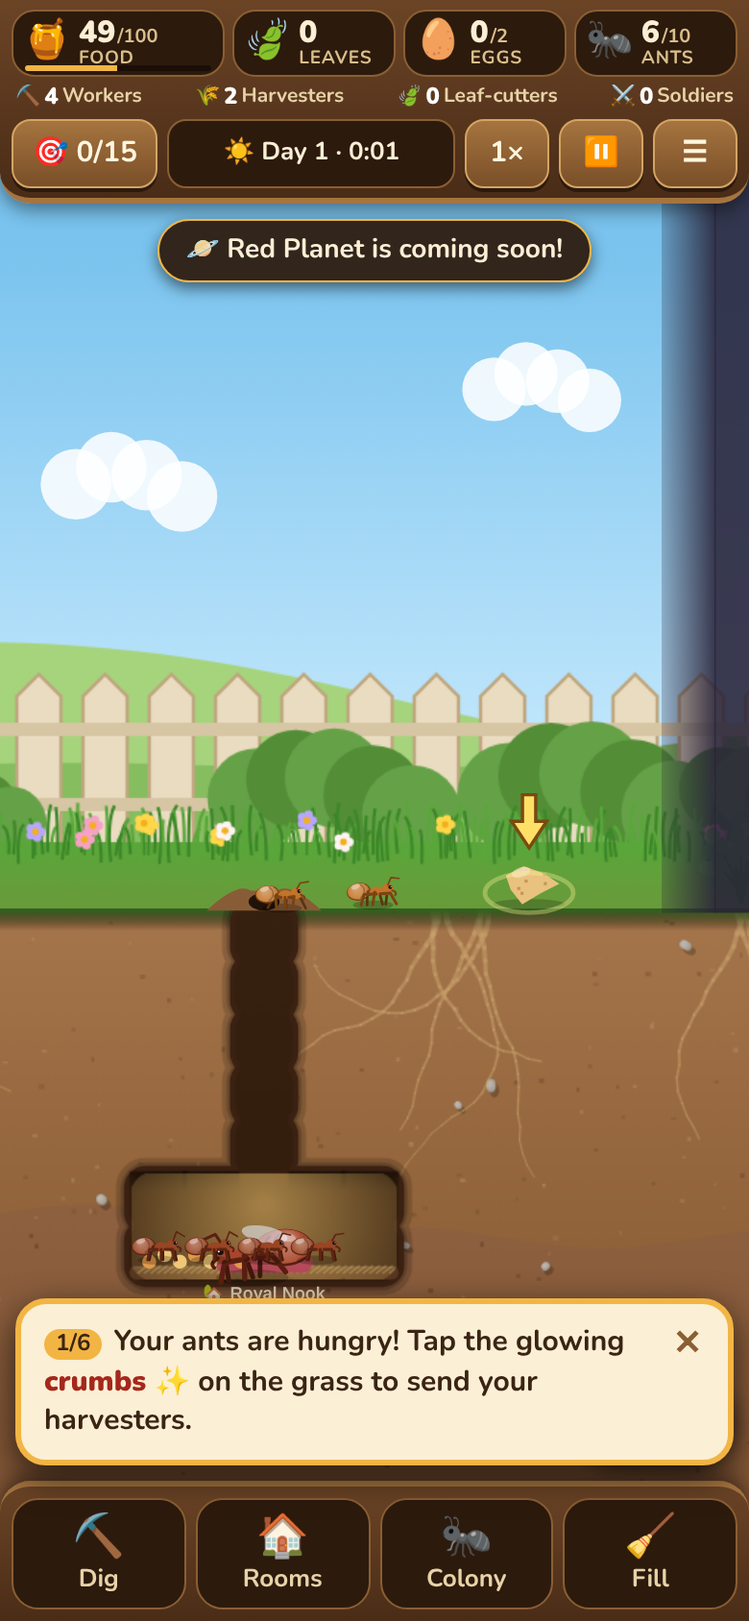
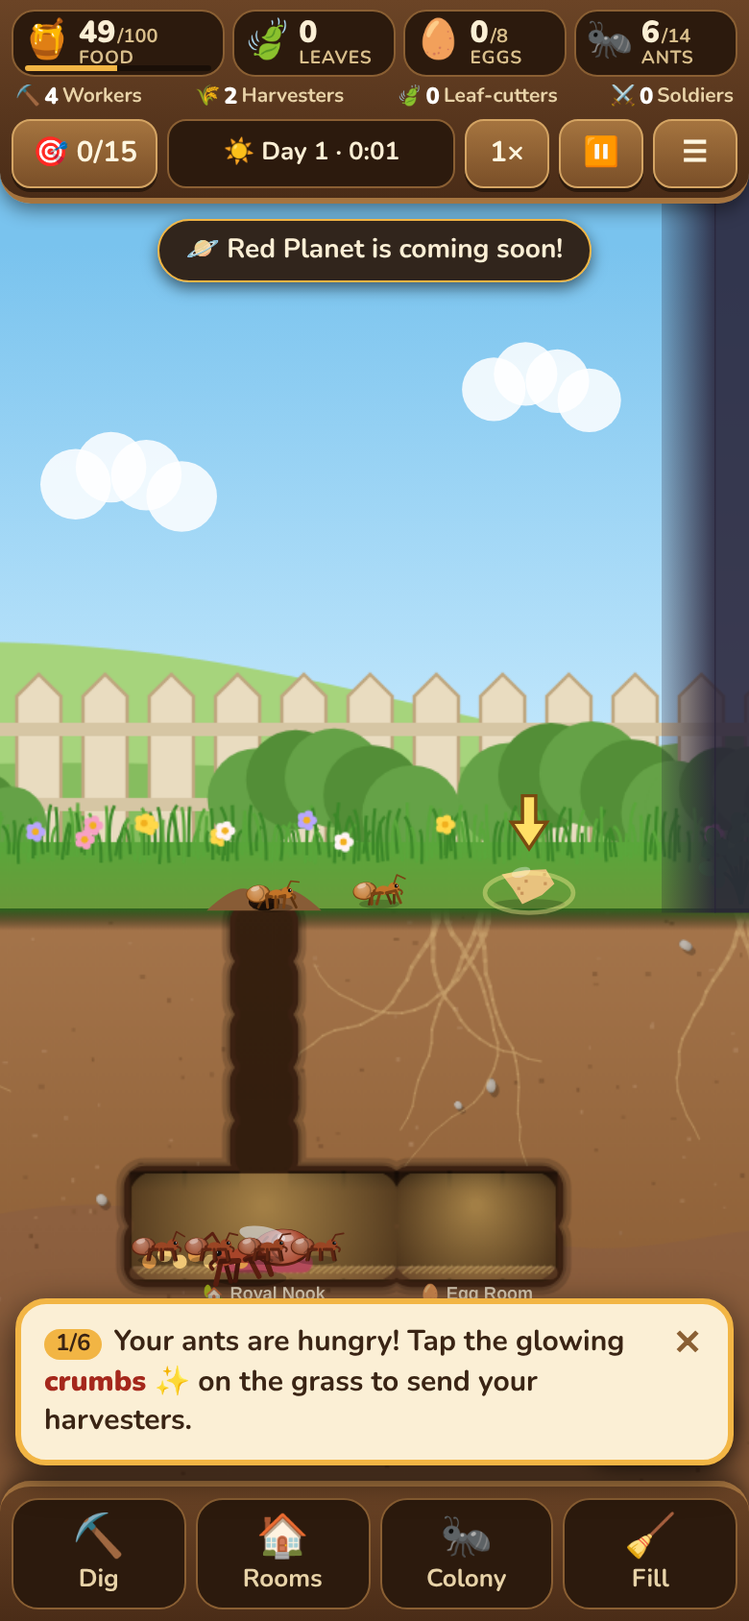
v1.0.1: hatching can never stall — starter Egg Room, pop cap 14, Lay egg button with reason + one-tap fix, hatch-as worker/harvester, Worker ＋

diff --git a/ui.js b/ui.js
@@ -14,7 +14,7 @@ const TUT = [
   { t: 'More harvesters = more food. Open <b>🐜 Colony</b> and tap <b>＋</b> next to Harvesters.', hi: 'tab-colony', ok: () => count('harvester') >= 3 },
   { t: 'Time to dig! Tap <b>⛏ Dig</b>, then drag your finger from the tunnel into the dirt. Each cell costs 1 🍯.', hi: 'tab-dig', ok: () => S.st.planned >= 4 },
   { t: 'Rooms go next to tunnels. Tap <b>🏠 Rooms → Food Storage</b>, then tap beside your tunnel.', hi: 'tab-rooms', ok: () => roomsOf('storage').length > 0 },
-  { t: 'Add an <b>🥚 Egg Room</b> so the queen can lay more eggs. Workers dig rooms out for you.', hi: 'tab-rooms', ok: () => roomsOf('eggs').length > 0 },
+  { t: 'Add a <b>🛏 Sleeping Den</b> so your colony can grow past 14 ants. Workers dig rooms out for you.', hi: 'tab-rooms', ok: () => roomsOf('den').length > 0 },
   { t: 'You\'ve got it! Keep food above zero, follow <b>🎯 Goals</b>, and train soldiers before the first raid. Tap ✓.', hi: null, ok: () => false, done: true },
 ];
 function tutTick() {
@@ -25,7 +25,7 @@ function tutTick() {
   if ($('coach-t').dataset.k !== String(S.tut)) { $('coach-t').innerHTML = `<span class="step">${S.tut + 1}/${TUT.length}</span> ` + st.t; $('coach-t').dataset.k = S.tut; $('coach-ok').classList.toggle('hidden', !st.done); }
   hiOff(); if (st.hi && UI.tab !== st.hi.slice(4)) $(st.hi).classList.add('hl');
   if (S.tut === 1 && UI.tab === 'colony') document.querySelector('[data-a="+harvester"]')?.classList.add('hl');
-  if (S.tut >= 3 && S.tut <= 4 && UI.tab === 'rooms') document.querySelector(`[data-room="${S.tut === 3 ? 'storage' : 'eggs'}"]`)?.classList.add('hl');
+  if (S.tut >= 3 && S.tut <= 4 && UI.tab === 'rooms') document.querySelector(`[data-room="${S.tut === 3 ? 'storage' : 'den'}"]`)?.classList.add('hl');
 }
 function hiOff() { document.querySelectorAll('.hl').forEach(e => e.classList.remove('hl')); }
 function endTut() { S.tut = TUT.length; try { localStorage.setItem(TUT_KEY, '1'); } catch (e) {} tutTick(); }
@@ -33,12 +33,13 @@ $('coach-x').onclick = endTut; $('coach-ok').onclick = endTut;
 
 // ---------- HUD ----------
 function layReason() {
-  const q = queen(); if (!q) return 'No queen';
-  if (adults() + S.eggs.length >= popCap()) return 'Colony full — build a 🛏 Sleeping Den';
-  if (!S.rooms.some(r => r.done && ROOMS[r.k].eggs && !r.fl && S.eggs.filter(e => e.rid === r.id).length < ROOMS[r.k].eggs)) return 'No space for eggs — build a 🥚 Egg Room';
-  if (S.res.food < EGG_FOOD + 6) return 'Needs 10+ food to lay';
+  const v = canLay(); if (!v.ok) return v.why;
+  if (S.res.food < EGG_FOOD + 6) return 'Saving food — lays on her own at 10+ food';
   return `Laying (next egg ${Math.ceil(Math.max(0, S.qT) / (has('queen') ? 2 : 1))}s)`;
 }
+const FIX_TXT = { den: '🛏 Build Den', eggs: '🥚 Build Egg Room', harvester: '🌾 ＋ Harvester' };
+function doFix(f) { if (f === 'harvester') { const r = assign('harvester', 1); toast(r.ok ? '🌾 +1 Harvester' : r.why, r.ok ? '' : 'bad'); return; }
+  closeSheet(); UI.tab = 'rooms'; setMode('room', f); flyTo(ENTX, 160); }
 function alertText() {
   const f = S.res.food, net = netPerMin(), R = S.raid, bio = B();
   if (f <= 0) return { k: 'bad', t: '🍯 Starving! Ants lose health until you get food.', btn: true };
@@ -50,6 +51,7 @@ function alertText() {
   if (S.rain.on) return { k: 'warn', t: `${bio.rain.icon} ${bio.rain.name}! Water pools in the deepest tunnels` };
   if (S.rain.warned) return { k: 'warn', t: `${bio.rain.icon} ${bio.rain.name} in ${mmss(S.rain.next - S.t)} — keep key rooms high` };
   if (S.water > .5) return { k: 'info', t: `💧 Draining flood water… (${S.water.toFixed(1)} cells)` };
+  const v = canLay(); if (!v.ok && v.fix && v.fix !== 'harvester' && S.t > 20) return { k: 'info', t: `👑 Queen can't lay: ${v.why.split(' — ')[0]}`, fix: v.fix };
   return null;
 }
 let hudT = 0;
@@ -64,13 +66,13 @@ function hud() {
   const done = GOALS.filter(g => S.goals[g[0]]).length; $('btn-goals').textContent = `🎯 ${done}/${GOALS.length}`;
   const R = S.raid; $('status').textContent = S.hill.dead && !S.endless ? '🏳 Hill conquered' : R.active ? '⚔ Raid!' : S.t > R.next - (has('lookout') ? 45 : 12) || has('lookout') ? `⚔ Raid ${mmss(R.next - S.t)}` : `☀ Day ${1 + Math.floor(S.t / 120)} · ${mmss(S.t)}`;
   const a = alertText(), al = $('alert');
-  if (a) { al.className = 'show ' + a.k; $('alert-t').textContent = a.t; $('alert-b').classList.toggle('hidden', !a.btn); } else al.className = '';
+  if (a) { al.className = 'show ' + a.k; $('alert-t').textContent = a.t; const fx = a.btn ? 'harvester' : a.fix; $('alert-b').classList.toggle('hidden', !fx); $('alert-b').dataset.fix = fx || ''; $('alert-b').textContent = FIX_TXT[fx] || ''; } else al.className = '';
   const ns = count('soldier'); $('btn-army').classList.toggle('hidden', ns === 0); $('army-n').textContent = ns; $('btn-army').classList.toggle('sel', UI.sel.length > 0);
   $('btn-view').textContent = cam.y > 60 ? '⬆ Surface' : '⬇ Nest';
   if (UI.tab === 'colony' && !UI.selRoom) renderColony(); else if (UI.selRoom) renderRoomInfo(); else if (UI.tab === 'rooms' && UI.mode !== 'room' && !$('sheet').classList.contains('hidden')) renderRooms(true);
   updateMode();
 }
-$('alert-b').onclick = () => { const r = assign('harvester', 1); toast(r.ok ? '🌾 +1 Harvester' : r.why, r.ok ? '' : 'bad'); hud(); };
+$('alert-b').onclick = () => { doFix($('alert-b').dataset.fix || 'harvester'); hud(); };
 
 // ---------- sheets ----------
 function openTab(k) {
@@ -94,15 +96,19 @@ function renderRooms(soft) {
 function renderColony() {
   const el = $('sheet'); el.classList.remove('hidden'); const net = netPerMin();
   const desc = { worker: 'Dig tunnels and build rooms', harvester: 'Bring food from the surface', cutter: 'Carry leaves to the Fungus Garden', soldier: 'Guard the nest, attack the enemy hill' };
-  const rows = ROLES.map(k => { const tr = TRAIN[k], v = k === 'worker' ? { ok: false } : canTrain(k);
-    const plus = k === 'worker' ? '' : `<button class="pm plus ${v.ok ? '' : 'off'}" data-a="+${k}">＋${tr ? `<small>${tr.food}🍯</small>` : ''}</button>`;
+  const lay = canLay();
+  const rows = ROLES.map(k => { const tr = TRAIN[k], v = k === 'worker' ? lay : canTrain(k);
+    const plus = k === 'worker' ? `<button class="pm plus ${v.ok ? '' : 'off'}" data-a="lay:worker">＋<small>🥚${EGG_FOOD}🍯</small></button>` : `<button class="pm plus ${v.ok ? '' : 'off'}" data-a="+${k}">＋${tr ? `<small>${tr.food}🍯</small>` : ''}</button>`;
     const minus = k === 'worker' ? '' : `<button class="pm" data-a="-${k}">−</button>`;
-    return `<div class="role"><i>${UT[k].icon}</i><div class="rn"><b>${UT[k].name}s <span class="cnt">${count(k)}</span></b><small>${!v.ok && v.why && k !== 'worker' && k !== 'harvester' ? '🔒 ' + v.why : desc[k]}</small></div>${minus}${plus}</div>`; }).join('');
+    return `<div class="role"><i>${UT[k].icon}</i><div class="rn"><b>${UT[k].name}s <span class="cnt">${count(k)}</span></b><small>${!v.ok && v.why && k !== 'worker' && k !== 'harvester' ? '🔒 ' + v.why : k === 'worker' ? 'Dig tunnels and build rooms · ＋ lays a worker egg' : desc[k]}</small></div>${minus}${plus}</div>`; }).join('');
   const q = queen();
   const html = `<div class="sh-h"><b>🐜 Colony</b><span>${adults()}/${popCap()} ants · ${S.eggs.length} eggs</span><button class="x" data-a="close">✕</button></div>
-    <div class="qrow">👑 <b>Queen</b> ${q ? `❤ ${Math.ceil(q.hp)}/${q.max}` : '—'} · <span>${layReason()}</span></div>
+    <div class="brood ${lay.ok ? '' : 'blocked'}"><div class="bh">👑 <b>Queen</b> ${q ? `❤ ${Math.ceil(q.hp)}/${q.max}` : '—'} · 🥚 ${S.eggs.length}/${eggCap()} eggs${S.eggs.length ? ` · next hatch ${Math.ceil(Math.max(0, (has('nursery') ? 24 : 40) - Math.max(...S.eggs.map(e => e.t))))}s` : ''}</div>
+      <div class="bw">${lay.ok ? '✅ ' + layReason() : '⛔ ' + lay.why}</div>
+      <div class="bb"><button class="sm ${lay.ok ? 'green' : 'off'}" data-a="lay">🥚 Lay egg now · ${EGG_FOOD}🍯</button>${!lay.ok && lay.fix ? `<button class="sm green" data-a="fix:${lay.fix}">${FIX_TXT[lay.fix]}</button>` : ''}</div>
+      <div class="bh2">New ants hatch as: <button class="seg ${S.hatchAs === 'worker' ? 'on' : ''}" data-a="as:worker">⛏ Worker</button><button class="seg ${S.hatchAs === 'harvester' ? 'on' : ''}" data-a="as:harvester">🌾 Harvester</button></div></div>
     <div class="qrow">🍯 Food: <b class="${net < 0 ? 'neg' : 'pos'}">${net >= 0 ? '+' : ''}${Math.round(net)}/min</b> <small>(gathering ${Math.round(incomePerMin())}, eating ${Math.round(upkeep() * 60)})</small></div>
-    ${rows}<p class="tip">＋ turns a worker into that role. New ants hatch as workers.</p>`;
+    ${rows}<p class="tip">Worker ＋ lays an egg. Other ＋ buttons turn a spare worker into that role.</p>`;
   if (el.dataset.h === html) return; el.dataset.h = html; el.innerHTML = html;
 }
 function renderRoomInfo() {
@@ -120,7 +126,10 @@ $('sheet').addEventListener('click', e => {
     closeSheet(); UI.tab = 'rooms'; setMode('room', k); if (cam.y < 30) flyTo(cam.x, 140); return; }
   const a = b.dataset.a;
   if (a === 'close') closeSheet();
-  else if (a[0] === '+' || a[0] === '-') { const k = a.slice(1), r = assign(k, a[0] === '+' ? 1 : -1); if (!r.ok) toast(r.why || 'Not possible', 'bad'); else if (a[0] === '+') toast(`${UT[k].icon} ${TRAIN[k] ? 'Training a' : 'New'} ${UT[k].name.toLowerCase()}`); renderColony(); tutTick(); hud(); }
+  else if (a === 'lay' || a.startsWith('lay:')) { const r = layEgg(a.slice(4) || null); toast(r.ok ? `🥚 The queen laid an egg (−${EGG_FOOD} 🍯)` : r.why, r.ok ? '' : 'bad'); renderColony(); hud(); }
+  else if (a.startsWith('fix:')) doFix(a.slice(4));
+  else if (a.startsWith('as:')) { S.hatchAs = a.slice(3); toast(`New ants will hatch as ${S.hatchAs}s`); renderColony(); }
+  else if (a[0] === '+' || a[0] === '-') { const k = a.slice(1), r = assign(k, a[0] === '+' ? 1 : -1); if (!r.ok && r.needWorker && a[0] === '+' && k === 'harvester') { const l = layEgg('harvester'); toast(l.ok ? '🥚 No spare worker, so the queen laid a harvester egg' : r.why, l.ok ? '' : 'bad'); } else if (!r.ok) toast(r.why || 'Not possible', 'bad'); else if (a[0] === '+') toast(`${UT[k].icon} ${TRAIN[k] ? 'Training a' : 'New'} ${UT[k].name.toLowerCase()}`); renderColony(); tutTick(); hud(); }
   else if (a.startsWith('remove:')) { const r = roomById(+a.slice(7)); if (r && removeRoom(r)) { toast(`${ROOMS[r.k].name} removed`); closeSheet(); } }
 });
 
@@ -351,4 +360,4 @@ if ('serviceWorker' in navigator && location.protocol !== 'file:') {
   navigator.serviceWorker.addEventListener('controllerchange', () => { if (!had || reloading) return; reloading = true; if (UI.running) save(); location.reload(); });
   navigator.serviceWorker.register('sw.js').then(r => { r.update(); document.addEventListener('visibilitychange', () => { if (!document.hidden) r.update(); }); }).catch(() => {});
 }
-window.AH = { get S() { return S; }, set S(v) { S = v; }, step, newState, startGame, restore, serialize, save, loadSaved, clearSave, cam, w2s, s2w, UI, CS, COLS, ROWS, ENT, ENTX, idx, cx, cy, digPlan, commitDig, placeRoom, canRoom, assign, orderSoldiers, units, count, adults, has, roomsOf, foodCap, popCap, eggCap, wl, computeWater, GOALS, TUT, HOLD_MS, setMode, openTab, handleTap, route, ROOMS, VERSION, layReason, netPerMin, fillCell, showTitle, addU, get parts() { return parts; } };
+window.AH = { get S() { return S; }, set S(v) { S = v; }, step, newState, startGame, restore, serialize, save, loadSaved, clearSave, cam, w2s, s2w, UI, CS, COLS, ROWS, ENT, ENTX, idx, cx, cy, digPlan, commitDig, placeRoom, canRoom, assign, orderSoldiers, units, count, adults, has, roomsOf, foodCap, popCap, eggCap, wl, computeWater, GOALS, TUT, HOLD_MS, setMode, openTab, handleTap, route, ROOMS, VERSION, layReason, netPerMin, canLay, layEgg, fillCell, showTitle, addU, get parts() { return parts; } };

diff --git a/sim.js b/sim.js
@@ -1,6 +1,6 @@
 'use strict';
 // ================= Ant Haven — simulation =================
-const VERSION = 'ah-v1.0.0';
+const VERSION = 'ah-v1.0.1';
 const CS = 24, COLS = 64, ROWS = 34, ENT = 32, SURF_H = 300, NC = COLS * ROWS;
 const WW = COLS * CS, WH = ROWS * CS, ENTX = (ENT + .5) * CS, ENTI = ENT;  // entrance cell (ENT,0)
 const SOIL = 0, DUG = 1, PLAN = 2, ROCK = 3;
@@ -43,7 +43,7 @@ const DIFF = {
   hard: { name: 'Hard', food: 40, eat: 1 / 62, raidFirst: 300, raidEvery: 180, raidBase: 4, raidGrow: 2, hp: 1.25, hillHp: 520, guards: 5, starve: .4, rainMul: 1.4 },
 };
 const ROOMS = {
-  home: { name: 'Royal Nook', icon: '🏡', w: 5, h: 2, cost: {}, desc: 'Your starting chamber', cap: 100, eggs: 2, pop: 10 },
+  home: { name: 'Royal Nook', icon: '🏡', w: 5, h: 2, cost: {}, desc: 'Your starting chamber', cap: 100, eggs: 2, pop: 14 },
   storage: { name: 'Food Storage', icon: '🍯', w: 3, h: 2, cost: { food: 10 }, desc: '+60 food capacity', cap: 60 },
   eggs: { name: 'Egg Room', icon: '🥚', w: 3, h: 2, cost: { food: 12 }, desc: 'Room for 6 more eggs', eggs: 6 },
   den: { name: 'Sleeping Den', icon: '🛏', w: 3, h: 2, cost: { food: 14 }, desc: '+8 ant capacity', pop: 8 },
@@ -85,7 +85,7 @@ function newState(bk, dk, seed) {
     rain: { on: false, t: 0, next: 230, n: 0, warned: false }, haz: { on: false, t: 0, next: bio.hazard ? 330 : 1e12, n: 0, warned: false },
     raid: { n: 0, next: dif.raidFirst, active: false, warned: false, lost: 0, kills: 0 },
     hill: { x: (COLS - 4.5) * CS, hp: dif.hillHp, max: dif.hillHp, dead: false, spawnT: 0 },
-    forage: null, leafT: null, qT: 8, goals: {}, flags: {}, tut: 0, endless: false, won: false, over: false, why: '',
+    forage: null, leafT: null, qT: 8, hatchAs: 'worker', goals: {}, flags: {}, tut: 0, endless: false, won: false, over: false, why: '',
     st: { gathered: 0, eaten: 0, hatched: 0, lost: 0, leaves: 0, kills: 0, raids: 0, dug: 0, planned: 0, rooms: 0, stolen: 0, peak: 0, floods: 0 } };
   const g = s.grid;
   // bedrock border
@@ -100,6 +100,8 @@ function newState(bk, dk, seed) {
   for (let y = 0; y <= 4; y++) g[idx(ENT, y)] = DUG;
   s.rooms.push({ id: s.nid++, k: 'home', x: ENT - 2, y: 5, w: 5, h: 2, done: true });
   for (let y = 5; y <= 6; y++) for (let x = ENT - 2; x <= ENT + 2; x++) { g[idx(x, y)] = DUG; s.room[idx(x, y)] = s.rooms[0].id; }
+  const er = { id: s.nid++, k: 'eggs', x: ENT + 3, y: 5, w: 3, h: 2, done: true }; s.rooms.push(er);   // starter Egg Room so hatching never stalls early
+  for (let y = 5; y <= 6; y++) for (let x = ENT + 3; x <= ENT + 5; x++) { g[idx(x, y)] = DUG; s.room[idx(x, y)] = er.id; }
   for (let x = ENT - 7; x <= ENT + 7; x++) s.fog[x] = 1;
   // surface food + plants
   const it = (k, sub, col, amt) => s.items.push({ id: s.nid++, k, sub, x: (col + .5) * CS, amt, max: amt, rg: 0 });
@@ -265,6 +267,15 @@ function computeWater() {
   for (const y of ys) { const a = rows.get(y); if (v >= a.length) { for (const i of a) wl[i] = 1; v -= a.length; } else { for (const i of a) wl[i] = v / a.length; v = 0; break; } }
 }
 // ---------------- colony management ----------------
+function eggRoomWithSpace() { return S.rooms.filter(r => r.done && ROOMS[r.k].eggs && !r.fl).find(r => S.eggs.filter(e => e.rid === r.id).length < ROOMS[r.k].eggs); }
+function canLay() {   // why the queen can / can't lay right now, plus a one-tap fix
+  if (!queen()) return { ok: false, why: 'No queen' };
+  if (adults() + S.eggs.length >= popCap()) return { ok: false, why: `Colony full (${popCap()} ants) — build a 🛏 Sleeping Den`, fix: 'den' };
+  if (!eggRoomWithSpace()) return { ok: false, why: S.rooms.some(r => r.k === 'eggs' && r.done && r.fl) ? 'Egg Room is flooded — wait or build another' : 'Egg rooms are full — build another 🥚 Egg Room', fix: 'eggs' };
+  if (S.res.food < EGG_FOOD) return { ok: false, poor: true, why: `Need ${EGG_FOOD} food for an egg`, fix: 'harvester' };
+  return { ok: true };
+}
+function layEgg(as) { const v = canLay(); if (!v.ok) return v; S.res.food -= EGG_FOOD; S.eggs.push({ rid: eggRoomWithSpace().id, t: 0, wet: 0, ox: rnd(), oy: rnd(), as: as || S.hatchAs || 'worker' }); return { ok: true }; }
 function pickConvert(k) {  // choose an ant of role k to convert (prefer idle, not carrying)
   const c = S.units.filter(u => u.k === k && !u.train); if (!c.length) return null;
   c.sort((a, b) => (a.carry ? 1 : 0) - (b.carry ? 1 : 0) || (a.job >= 0 ? 1 : 0) - (b.job >= 0 ? 1 : 0)); return c[0];
@@ -279,8 +290,8 @@ function assign(k, dir) {   // dir +1: convert a worker into k; -1: convert a k 
   if (k === 'worker') return { ok: false };
   if (dir > 0) {
     const v = canTrain(k); if (!v.ok) return v;
-    if (count('worker') <= 1) return { ok: false, why: 'Keep at least 1 worker to dig — hatch more ants' };
-    const u = pickConvert('worker'); if (!u) return { ok: false, why: 'No free workers — hatch more ants' };
+    if (count('worker') <= 1) return { ok: false, needWorker: true, why: 'Need a spare worker (1 must stay to dig) — tap 🥚 Lay egg' };
+    const u = pickConvert('worker'); if (!u) return { ok: false, needWorker: true, why: 'No spare workers — tap 🥚 Lay egg' };
     setRole(u, k);
     if (TRAIN[k]) { S.res.food -= TRAIN[k].food; u.train = TRAIN[k].time; const b = roomsOf('barracks').find(r => r.done); if (b) { const p = rndRoomPt(b); route(u, p.x, p.y); } S.flags[k] = true; }
     return { ok: true, u };
@@ -470,16 +481,14 @@ function colonyTick(dt) {
   if (q) { const qr = S.rooms.find(r => r.k === 'queen' && r.done && !r.fl);
     S.qT -= dt * (qr ? 2 : 1) * ((S.haz.on && B().hazard.kind === 'cold') ? .6 : 1);
     if (S.qT <= 0) { S.qT = 16;
-      const room = S.rooms.filter(r => r.done && ROOMS[r.k].eggs && !r.fl).find(r => S.eggs.filter(e => e.rid === r.id).length < ROOMS[r.k].eggs);
-      if (room && adults() + S.eggs.length < popCap() && S.res.food >= EGG_FOOD + 6) { S.res.food -= EGG_FOOD; S.eggs.push({ rid: room.id, t: 0, wet: 0, ox: rnd(), oy: rnd() }); }
-      else S.qT = 3; } }
+      if (S.res.food >= EGG_FOOD + 6 && canLay().ok) layEgg(); else S.qT = 3; } }
   // eggs hatch
   const nurse = S.rooms.some(r => r.k === 'nursery' && r.done && !r.fl), cold = S.haz.on && B().hazard && B().hazard.kind === 'cold';
   const need = nurse ? 24 : 40;
   for (let k = S.eggs.length - 1; k >= 0; k--) { const g = S.eggs[k], r = roomById(g.rid) || homeRoom();
     if (r.fl) { g.wet += dt; if (g.wet > 6) { S.eggs.splice(k, 1); say('🥚 Eggs drowned in a flooded room!', 'bad'); continue; } } else g.wet = Math.max(0, g.wet - dt);
     g.t += dt * (cold && !nurse ? .5 : 1);
-    if (g.t >= need) { S.eggs.splice(k, 1); const p = rndRoomPt(r); const u = addU('worker', p.x, p.y); u.wait = 1; S.st.hatched++; events.push({ hatch: u.id }); } }
+    if (g.t >= need) { S.eggs.splice(k, 1); const p = rndRoomPt(r); const u = addU(g.as === 'harvester' ? 'harvester' : 'worker', p.x, p.y); u.wait = 1; S.st.hatched++; events.push({ hatch: u.id }); } }
   // gardens: leaves -> food
   for (const r of S.rooms) if (r.k === 'garden' && r.done && !r.fl) { r.gt = (r.gt || 0) + dt; if (r.gt >= 5) { r.gt = 0; if (S.res.leaves >= 1 && S.res.food < foodCap()) { S.res.leaves -= 1; const before = S.res.food; S.res.food = Math.min(foodCap(), S.res.food + 3); S.st.gathered += S.res.food - before; incomeAdd(S.res.food - before); r.grow = Math.min(1, (r.grow || 0) + .08); } } }
   // flooded storage spoils food
@@ -495,7 +504,7 @@ const GOALS = [
   ['food20', 'Collect 20 food', () => S.st.gathered >= 20],
   ['dig', 'Dig a tunnel (5 cells)', () => S.st.dug >= 5],
   ['storage', 'Build a Food Storage', () => has('storage') || has('pantry')],
-  ['eggs', 'Build an Egg Room', () => has('eggs')],
+  ['den', 'Build a Sleeping Den', () => has('den')],
   ['hatch5', 'Hatch 5 ants', () => S.st.hatched >= 5],
   ['queen', 'Build the Queen Chamber', () => has('queen')],
   ['barracks', 'Build a Barracks', () => has('barracks')],

diff --git a/style.css b/style.css
@@ -97,3 +97,8 @@ button{font:inherit;color:inherit;border:0;cursor:pointer;touch-action:manipulat
   #toasts{top:calc(var(--st) + 110px)}
   #overlay.title{align-items:center;background:#0007}#ov-card{max-width:600px}.logo h1{font-size:32px}
 }
+
+.brood{background:#f6e3bb;border:2px solid #e2c48a;border-radius:12px;padding:7px 8px;margin-top:4px;font-size:12.5px;display:flex;flex-direction:column;gap:5px}
+.brood.blocked{border-color:#e07a5a;background:#fbe0d0}.brood .bw{font-size:13px}.brood.blocked .bw{color:#a5281c}
+.brood .bb{display:flex;gap:6px;flex-wrap:wrap}.brood .bb .sm{height:42px;font-size:14px}.sm.off{filter:grayscale(.8);opacity:.6}
+.brood .bh2{display:flex;align-items:center;gap:4px}.seg{height:36px;padding:0 9px;border-radius:10px;background:#e8d3a8;border:2px solid #c9a36e;font-size:13px}.seg.on{background:linear-gradient(#ffe7a8,#f2c15a);border-color:#a5743f}

diff --git a/sw.js b/sw.js
@@ -1,4 +1,4 @@
-const VERSION = 'ah-v1.0.0';
+const VERSION = 'ah-v1.0.1';
 const FILES = ['./', 'index.html', 'style.css', 'sim.js', 'draw.js', 'ui.js', 'manifest.webmanifest', 'icons/icon-180.png', 'icons/icon-192.png', 'icons/icon-512.png'];
 self.addEventListener('install', e => { e.waitUntil(caches.open(VERSION).then(c => c.addAll(FILES)).then(() => self.skipWaiting())); });
 self.addEventListener('activate', e => { e.waitUntil(caches.keys().then(ks => Promise.all(ks.filter(k => k !== VERSION).map(k => caches.delete(k)))).then(() => self.clients.claim())); });

diff --git a/tests/smoke.py b/tests/smoke.py
@@ -12,7 +12,7 @@ BOT = """(FIND) => { const A = AH, S = A.S, find = eval(FIND), log = [];
   const ad = A.adults(), h = A.count('harvester');
   const wantH = Math.max(3, Math.round(ad * .34)); if ((h < wantH || S.res.food < 20) && A.count('worker') > 2) { const r = A.assign('harvester', 1); if (r.ok) log.push('+harv'); }
   if (S.res.food > 70 && h > 3 && A.count('worker') < 2) A.assign('harvester', -1);
-  const plan = [['eggs', 6], ['den', 8], ['queen', 9], ['barracks', 4], ['garden', 8], ['nursery', 7], ['lookout', 2], ['den', 10], ['sump', 30], ['eggs', 9], ['storage', 6], ['den', 11], ['pantry', 7]];
+  const plan = [['den', 8], ['queen', 9], ['barracks', 4], ['garden', 8], ['nursery', 7], ['lookout', 2], ['den', 10], ['sump', 30], ['eggs', 9], ['storage', 6], ['den', 11], ['pantry', 7]];
   for (const [k, py] of plan) { const n = plan.filter(p => p[0] === k).indexOf(plan.find(p => p[0] === k && p[1] === py)); if (A.roomsOf(k).length > n) continue;
     const c = A.ROOMS[k].cost; if ((c.food || 0) + 12 > S.res.food || (c.leaves || 0) > S.res.leaves) break;
     let s = find(k, k === 'sump' ? 30 : py); if (!s && k === 'sump') { // dig a deep shaft first
@@ -102,15 +102,39 @@ with sync_playwright() as p:
     touch("touchStart", [(gp["x"], gp["y"])]); touch("touchMove", [(gp["x"] + 1, gp["y"])]); pg.wait_for_timeout(120); pg.screenshot(path=SS + "06-room-ghost.png"); gh = pg.evaluate("() => [AH.UI.ghost, AH.UI.room, AH.UI.ghost && AH.canRoom(AH.UI.room, AH.UI.ghost.x, AH.UI.ghost.y)]"); touch("touchEnd", []); pg.wait_for_timeout(200)
     print("ghost", pg.evaluate("() => [pointers.size, gest && gest.kind, (e => e && (e.id || e.className || e.tagName) + '<' + (e.parentElement && (e.parentElement.id || e.parentElement.className)))(document.elementFromPoint(%f, %f)), %f, %f]" % (gp["x"], gp["y"], gp["x"], gp["y"])), s, gh, pg.inner_text("#toasts"))
     check(len(pg.evaluate("() => AH.roomsOf('storage')")) == 1 and pg.evaluate("() => AH.UI.mode") is None, "Food Storage placed by tap, placement mode ends by itself")
-    pg.click("#tab-rooms"); pg.click("[data-room=eggs]"); s = pg.evaluate(FIND_ROOM.replace("(k, prefY)", "([k, prefY])"), ["eggs", 5])
+    pg.click("#tab-rooms"); pg.click("[data-room=den]"); s = pg.evaluate(FIND_ROOM.replace("(k, prefY)", "([k, prefY])"), ["den", 5])
     pg.evaluate("([x, y]) => { AH.cam.x = x; AH.cam.y = y; }", [(s["x"] + 1.5) * 24, (s["y"] + 1) * 24]); pg.wait_for_timeout(60)
     gp = pg.evaluate(W2S, [(s["x"] + 1.5) * 24, (s["y"] + 1) * 24 + 30 / 1.15]); tap(gp["x"], gp["y"]); pg.wait_for_timeout(150)
-    check(len(pg.evaluate("() => AH.roomsOf('eggs')")) == 1, "Egg Room placed")
+    check(len(pg.evaluate("() => AH.roomsOf('den')")) == 1, "Sleeping Den placed")
     check(pg.evaluate("() => AH.S.tut") == 5 and "Got it" in pg.inner_text("#coach"), "tutorial reaches its last card")
     pg.click("#coach-ok"); check(not pg.is_visible("#coach"), "tutorial closes")
     # cancel works
-    pg.click("#tab-rooms"); pg.click("[data-room=den]"); pg.click("#mode-x"); check(pg.evaluate("() => AH.UI.mode") is None, "Cancel exits room placement")
+    pg.click("#tab-rooms"); pg.click("[data-room=pantry]"); pg.click("#mode-x"); check(pg.evaluate("() => AH.UI.mode") is None, "Cancel exits room placement")
 
+    # --- hatching is ALWAYS possible (the playtest bug) ---
+    hb = pg.evaluate("""() => { const S = AH.S, out = {}; S.res.food = 60;
+      out.start = AH.canLay();
+      // fill the colony to the cap: lay is blocked with a Den fix, never silently
+      while (AH.canLay().ok) AH.layEgg(); out.full = AH.canLay();
+      return out; }""")
+    check(hb["start"]["ok"], f"queen can lay at the start (starter Egg Room) {hb['start']}")
+    check(not hb["full"]["ok"] and hb["full"].get("fix") in ("den", "eggs"), f"when blocked, the reason comes with a one-tap fix {hb['full']}")
+    pg.click("#tab-colony"); pg.wait_for_timeout(150)
+    check(pg.locator("[data-a=lay]").count() == 1 and pg.locator("[data-a^='fix:']").count() == 1 and pg.locator("[data-a='lay:worker']").count() == 1, "Colony panel shows Lay egg, the fix button and a Worker ＋")
+    check("⛔" in pg.inner_text(".brood"), "blocked reason shown in the brood card: " + pg.inner_text(".brood .bw"))
+    pg.screenshot(path=SS + "03b-brood-blocked.png")
+    pg.evaluate("() => { const S = AH.S; S.eggs.length = 0; S.res.food = 60; }"); pg.wait_for_timeout(300)
+    pg.click("[data-a='as:harvester']"); n0 = pg.evaluate("() => AH.S.eggs.length"); pg.click("[data-a=lay]"); pg.wait_for_timeout(100)
+    e = pg.evaluate("() => AH.S.eggs.map(e => e.as)")
+    check(len(e) == n0 + 1 and e[-1] == "harvester", f"Lay egg now works and respects 'hatch as harvester' {e}")
+    h0 = pg.evaluate("() => AH.count('harvester')"); run(45)
+    check(pg.evaluate("() => AH.count('harvester')") > h0, "the harvester egg hatched into a harvester (no worker converted)")
+    # with only one worker, Harvester ＋ lays a harvester egg instead of refusing
+    pg.evaluate("() => { const S = AH.S; S.units.filter(u => u.k === 'worker').slice(1).forEach(u => u.k = 'harvester'); S.res.food = 60; S.eggs.length = 0; }"); pg.wait_for_timeout(300)
+    pg.click("[data-a='+harvester']"); pg.wait_for_timeout(100)
+    check(pg.evaluate("() => AH.S.eggs.length") == 1 and "harvester egg" in pg.inner_text("#toasts"), "with 1 worker left, ＋Harvester lays a harvester egg instead of failing")
+    pg.click("[data-a='lay:worker']"); check(pg.evaluate("() => AH.S.eggs.slice(-1)[0].as") == "worker", "Worker ＋ lays a worker egg")
+    pg.evaluate("() => { const S = AH.S; S.hatchAs = 'worker'; S.units.filter(u => u.k === 'harvester').slice(3).forEach(u => u.k = 'worker'); }"); pg.click("[data-a=close]")
     # --- 10 minutes of play following the tutorial strategy ---
     minfood, starved, lowseen, log = 999, 0, False, []
     shots = {}
